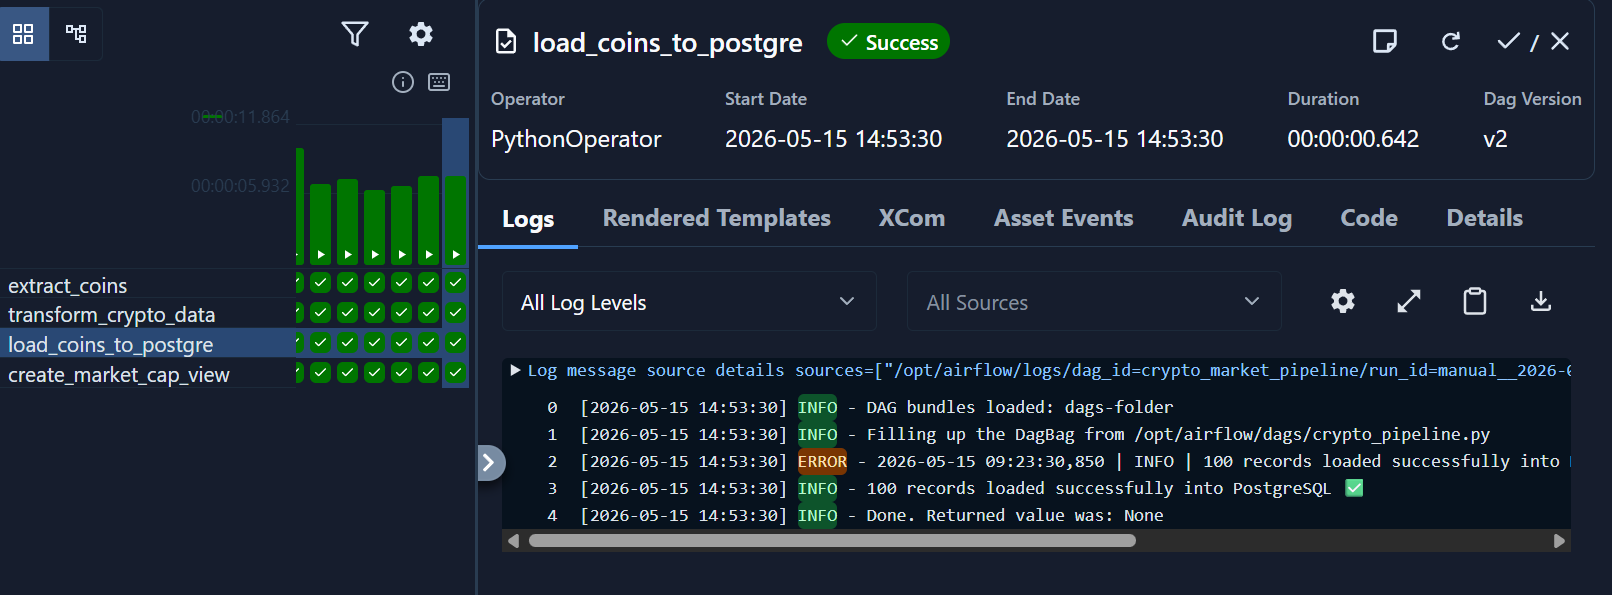
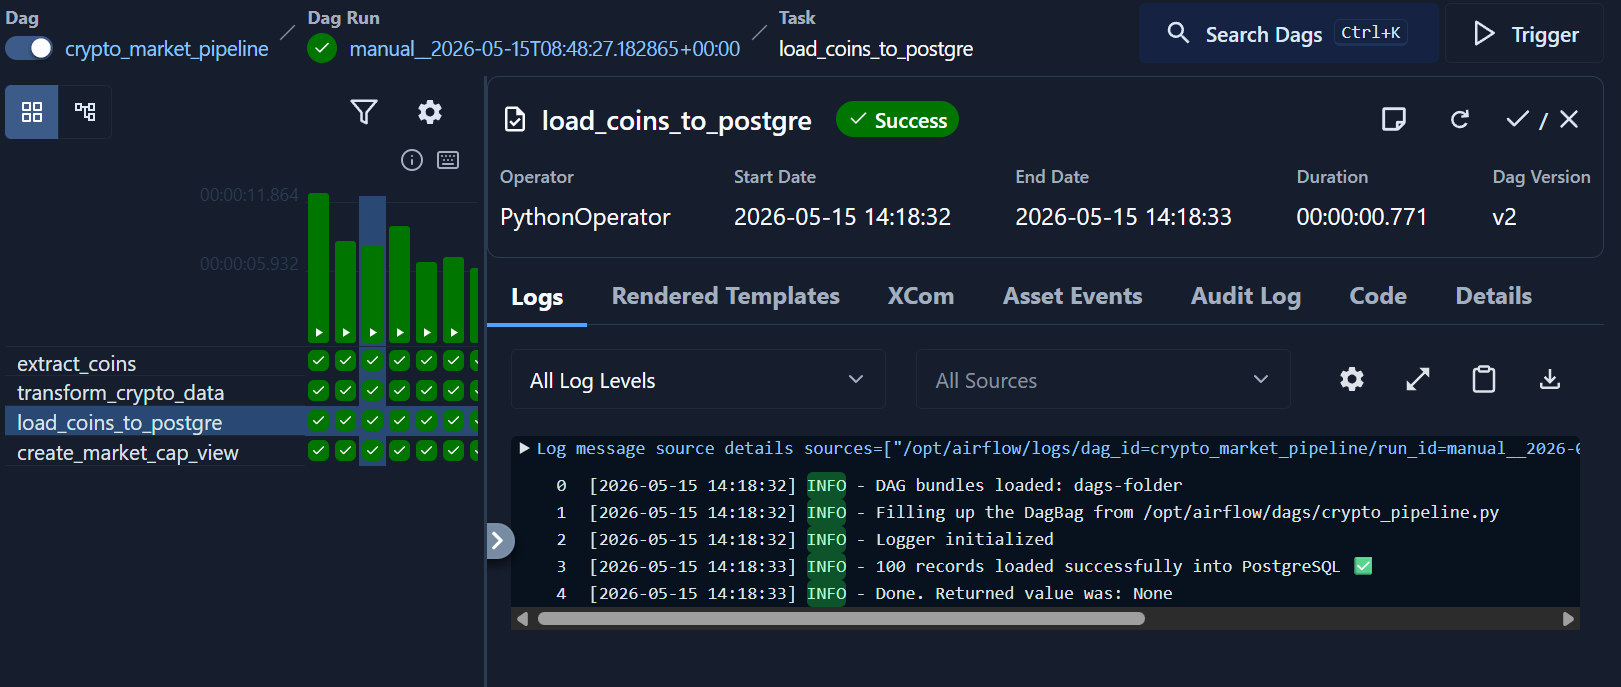
Day 3 : Updated README with project architecture and setup instructions

diff --git a/README.md b/README.md
@@ -4,14 +4,15 @@ A production-style ETL pipeline built using Python, Apache Airflow, PostgreSQL, 
 
 ---
 
-# 📌 Project Overview
+## 📌 Project Overview
 
 This project extracts cryptocurrency market data from the CoinGecko API, transforms the data using pandas, stores historical snapshots in PostgreSQL, and orchestrates the workflow using Apache Airflow.
 
 ---
 
-# 🏗️ Architecture
+## 🏗️ Architecture
 
+```text
 CoinGecko API
 ↓
 Python Extraction
@@ -23,10 +24,9 @@ PostgreSQL
 Airflow DAG Orchestration
 ↓
 SQL Analytics
+```
 
----
-
-# ⚙️ Tech Stack
+## ⚙️ Tech Stack
 
 - Python
 - Apache Airflow
@@ -38,7 +38,7 @@ SQL Analytics
 
 ---
 
-# 🔄 Pipeline Flow
+## 🔄 Pipeline Flow
 
 1. Extract cryptocurrency market data from CoinGecko API
 2. Transform and clean data using pandas
@@ -48,13 +48,15 @@ SQL Analytics
 
 ---
 
-# 📊 Features
+## 📊 Features
 
 - Automated ETL pipeline
 - Airflow DAG orchestration
 - PostgreSQL integration
 - Historical crypto data storage
 - Retry handling and logging
+
+---
 
 # 🚀 Running the Project
 
@@ -72,7 +74,7 @@ http://localhost:8080
 
 ---
 
-# 🔐 Airflow Connection
+## 🔐 Airflow Connection
 
 Create PostgreSQL connection in Airflow UI:
 